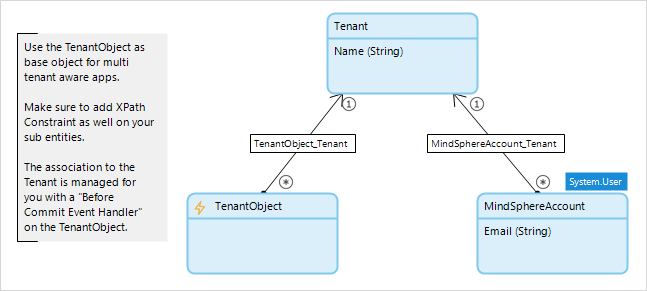
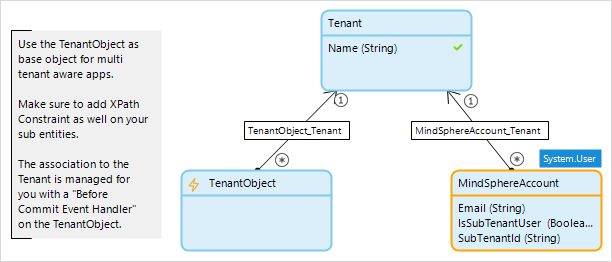
Changes made - needs proofreading

Changed region(s): [[0.2794, 0.0305, 0.9935, 0.9771], [0.0, 0.1221, 0.2484, 0.8855], [0.031, 0.0916, 0.0621, 0.1221]]

diff --git a/content/developerportal/deploy/deploying-to-mindsphere.md b/content/developerportal/deploy/deploying-to-mindsphere.md
@@ -296,6 +296,8 @@ The MindSphere SSO module is included in the MindSphere starter and example apps
 
 {{% alert type="warning" %}}
 The SSO module also requires changes to the app theme see section 2.1.2, [Customizing an Existing App](#existingapp) section.
+
+Please ensure that you download the latest version of the [Theme Pack](#msthemepack) module when you download the SSO module.
 {{% /alert %}}
 
 #### 6.1.1 Constants
@@ -436,12 +438,19 @@ More information on the structure and content of this JSON object, together with
 
 * An Atlas UI theme for MindSphere apps
 * An updated *index.html* file
-* A new *MindSphereLogin.html* file
-* A new permission-denied page (*error_page/403.html*)
+* A new *mindspherelogin.html* file
+* New error pages:
+  * permission-denied (*error_page/403.html*)
+  * no authorization header found (*error_page/NoJWT.html*)
+  * CockpitApplicationName does not match MindSphere token (*error_page/CockpitApplicationName.html*)
+
+#### 6.3.1 Atlas UI Theme
+
+See [MindSphere Development Considerations](/refguide/mindsphere-development-considerations) for a discussion about using the MindSphere Atlas UI Theme.
 
 #### 6.3.1 index.html Changes{#indexhtmlchanges}
 
-Three changes are required to the standard Mendix index.html file to allow integration with MindSphere. In the starter app, example app, and MindSphere UI theme pack, these have already been implemented. If you are making the app from a different starter app you can make these changes manually. See section 6.1, [index.html](#indexhtml), for details of the changes you need to make.
+Three changes are required to the standard Mendix index.html file to allow integration with MindSphere. In the starter app, example app, and MindSphere UI theme pack, these have already been implemented. If you are making the app from a different starter app you can make these changes manually. See the [index.html](#indexhtml) section, below, for details of the changes you need to make.
 
 The changes are required to support:
 
@@ -451,17 +460,23 @@ The changes are required to support:
 
 The index.html file can be found in the /theme folder of your project app.
 
-#### 6.3.2 MindSphereLogin.html
+#### 6.3.2 mindspherelogin.html
 
-As well as changes to the index.html file, SSO for MindSphere also requires a different login *.html* file. This is called MindSphereLogin.html and can also be found in the /theme folder of your project app.
+As well as changes to the index.html file, SSO for MindSphere also requires a different login *.html* file. This is called mindspherelogin.html and can also be found in the /theme folder of your project app.
 
-If this file is not in your /theme folder, you can create it following the instructions in section 6.2, MindSphereLogin.html, or by importing the MindSphere_UI_Resources theme pack.
+If this file is not in your /theme folder, you can create it following the instructions in the [mindspherelogin.html](#mindspherelogin) section, below, or by importing the MindSphere_UI_Resources theme pack.
 
 #### 6.3.3  Permission Denied Page
 
-The permission denied page will be shown if your app will be called with an invalid token or a token which does not include the value you have specified within the SSO constant ‘CockpitApplicationName’. The SSO module expects to find this MindSphere-compliant file as error_page/403.html within your ‘Theme’ folder.
+This is the general permission denied page, and will be shown if your app is called with an invalid token. The SSO module expects to find this MindSphere-compliant file as error_page/403.html within your ‘Theme’ folder.
 
-{{% image_container width="50%" %}}![](attachments/deploying-to-mindsphere/image12.png){{% /image_container %}}
+#### 6.3.4  No Authorization Information Found Page
+
+The No Authorization Information Found page (NoJWT.html) will be shown if your app is called without a valid token. This happens when the app URL is called directly and not via MindGate (Launchpad). For example, if you have a self-hosted, or Mendix Cloud, deployment. The SSO module expects to find this MindSphere-compliant file as error_page/NoJWT.html within your ‘Theme’ folder.
+
+#### 6.3.5  CockpitApplicationName Not Found in the Provided Authorization Information Page
+
+The CockpitApplicationName does not match MindSphere token page will be shown if your app is called with a token which does not include the value (as the *audience* claim of the JWT) you have specified within the SSO constant ‘CockpitApplicationName’. The SSO module expects to find this MindSphere-compliant file as error_page/CockpitApplicationName.html within your ‘Theme’ folder.
 
 ## 7 Development Considerations
 
@@ -484,40 +499,95 @@ If you use the MindSphere starter or example apps, or the Mendix MindSphere them
 
 #### 8.1.1 OS Bar
 
-For the OS Bar to work correctly in your Mendix app, the following script has to be added within the `<head> tags of index.html.
+For the OS Bar to work correctly in your Mendix app, the following script has to be added within the `<head> tags of index.html. Please note the comments in the code regarding the order in which things need to be done if you are inserting this manually.
+
 ```javascript
 <script>
-// MindSphere specific part-1: OS Bar related code
-(function(d1, script1) {
-  script1 = d1.createElement('script');
-  script1.type = 'text/javascript';
-  script1.async = true;
-  script1.onload = function() {
-    _mdsp.init({
-      appId : 'content',
-      appInfoPath : "/rest/os-bar/v1/config",
-      initialize : true
-    });
+	// MindSphere specific part-1: OS Bar related code
+	(function(d1, script1) {
+		script1 = d1.createElement('script');
+		script1.type = 'text/javascript';
+		script1.async = true;
+		script1.onload = function() {
+			_mdsp.init({
+				appId : 'content',
+				appInfoPath : "/rest/os-bar/v1/config",
+				initialize : true
+			});
 
-// make sure that the mxui.js is loaded after osbar/v4/js/main.min.js to prevent problems with the height calculation of some elements
-
-    (function(d2, script2) {
-      script2 = d2.createElement('script');
-      script2.src = 'mxclientsystem/mxui/mxui.js?{{cachebust}}';
-      script2.async = true;
-      d2.getElementsByTagName('body')[0].appendChild(script2);
-    }(document));
-  };
-  script1.src = 'https://static.eu1.mindsphere.io/osbar/v4/js/main.min.js';
-  d1.getElementsByTagName('head')[0].appendChild(script1);
-}(document));
-// MindSphere specific part-1: ends
+			// dojoConfig needs to be defined before loading mxui.js
+			dojoConfig = {
+				isDebug: false,
+				baseUrl: "mxclientsystem/dojo/",
+				cacheBust : "{{cachebust}}",
+				rtlRedirect: "index-rtl.html"
+			};
+			
+			// make sure that the mxui.js is loaded after osbar/v4/js/main.min.js to prevent problems with the height calculation of some elements
+			(function(d2, script2) {
+				script2 = d2.createElement('script');
+				script2.src = 'mxclientsystem/mxui/mxui.js?{{cachebust}}';
+				script2.async = true;
+				d2.getElementsByTagName('body')[0].appendChild(script2);
+			}(document));
+		};
+		script1.src = 'https://static.eu1.mindsphere.io/osbar/v4/js/main.min.js';
+		d1.getElementsByTagName('head')[0].appendChild(script1);
+	}(document));
+	// MindSphere specific part-1: ends
 </script>
 ```
 
-#### 8.1.2 SSO
+#### 8.1.2 XSRF
 
-To allow SSO, the usual login.html needs to be replaced with a different file (MindSphereLogin.html).
+In index.html, after the line `<div id="content"></div>`, the following script needs to be included in the file.
+
+```javascript
+<script>
+	// MindSphere specific part-2: We have to use the XSRF-TOKEN on fetch requests.
+	// This script should placed before "mxui.js" as this script makes the fetch requests
+	(function() {
+		// Read cookie below
+		function getCookie(name) {
+			match = document.cookie.match(new RegExp('(^| )' + name	+ '=([^;]+)'));
+			if (match)
+				return match[2];
+			else
+				return "";
+		}
+
+		var xrsfToken = getCookie("XSRF-TOKEN");
+		if (window.fetch) {
+			var originalFetch = window.fetch;
+			window.fetch = function(url, init) {
+				if (!init) {
+					init = {};
+				}
+				if (!init.headers) {
+					init.headers = new Headers();
+				}
+				init.headers.set("x-xsrf-token", xrsfToken);
+				return originalFetch(url, init);
+			}
+		}
+		var originalXMLHttpRequest = window.XMLHttpRequest;
+		window.XMLHttpRequest = function() {
+			var result = new originalXMLHttpRequest(arguments);
+			result.open = function() {
+				originalXMLHttpRequest.prototype.open
+						.apply(this, arguments);
+				this.setRequestHeader("x-xsrf-token", xrsfToken);
+			}
+			return result;
+		};
+	})();
+	// MindSphere specific part-2: ends
+</script>
+```
+
+#### 8.1.3 SSO
+
+To allow SSO, the usual login.html needs to be replaced with a different file (mindspherelogin.html).
 
 Replace the following lines:
 ```javascript
@@ -526,65 +596,26 @@ document.cookie = "originURI=/login.html";
 ```
 with these lines:
 ```javascript
-if (\!document.cookie || \!document.cookie.match(/(^|;)originURI=/gi))
-document.cookie = "originURI=/MindSphereLogin.html";
+if (!document.cookie || !document.cookie.match(/(^|;)originURI=/gi))
+		document.cookie = "originURI=/mindspherelogin.html?{{cachebust}}";
 ```
 
 {{% alert type="info" %}}
-If MindSphereLogin.html does not exist in your /theme folder, you will have to create it. See section 6.2, [MindSphereLogin.html](#mindspherelogin).
+If mindspherelogin.html does not exist in your /theme folder, you will have to create it. See the [mindspherelogin.html](#mindspherelogin) section, below.
 {{% /alert %}}
 
-#### 8.1.3 XSRF
+### 8.2 mindspherelogin.html{#mindspherelogin}
 
-In index.html, before the before the line `<script src="mxclientsystem/mxui/mxui.js?{{cachebust}}"></script>`, the following script needs to be included in the file.
-```javascript
-<script>
-// MindSphere specific part-2: We have to use the XSRF-TOKEN on fetch requests.
-// This script should placed before "mxui.js" as this script makes the fetch requests
-(function() {
-// Read cookie below
-function getCookie(name) {
-  match = document.cookie.match(new RegExp('(^| )' + name + '=([^;]+)'));
-  if (match) return match[2]; else return "";
-  }
-  var xrsfToken = getCookie("XSRF-TOKEN");
-  if (window.fetch) {
-    var originalFetch = window.fetch;
-    window.fetch = function(url, init) {
-      if (\!init) {
-        init = {};
-      }
-      if (\!init.headers) {
-        init.headers = new Headers();
-      }
-      init.headers.set("x-xsrf-token", xrsfToken);
-      return originalFetch(url, init);
-    }
-  }
-  var originalXMLHttpRequest = window.XMLHttpRequest;
-  window.XMLHttpRequest = function() {
-    var result = new originalXMLHttpRequest(arguments);
-    result.open = function() {
-      originalXMLHttpRequest.prototype.open.apply(this, arguments);
-      this.setRequestHeader("x-xsrf-token", xrsfToken);
-    }
-   return result;
-  };
-})();
-// MindSphere specific part-2: ends
-</script>
-```
-### 8.2 MindSphereLogin.html{#mindspherelogin}
+The mindspherelogin.html file should have the following content.
 
-The MindSphereLogin.html file should have the following content.
 ```html
-<\!doctype html>
+<!doctype html>
 <html>
 <head>
-<title>MindSphereLogin</title>
-<script>
-window.location.assign("/sso/")
-</script>
+  <title>MindSphere Login SSO redirection</title>
+  <script>
+    window.location.assign("/sso/?{{cachebust}}")
+  </script>
 </head>
 </html>
 ```

diff --git a/content/refguide/mindsphere/mindsphere-development-considerations.md b/content/refguide/mindsphere/mindsphere-development-considerations.md
@@ -8,13 +8,50 @@ tags: ["MindSphere", "Credentials", "Multi-Tenant", "Environment Variables", "Lo
 
 ## 1 Introduction
 
-When developing a Mendix app which will be deployed to MindSphere, there are a number of extra things you need to take into consideration. These are discussed below. 
+When developing a Mendix app which will be deployed to MindSphere, there are a number of extra things you need to take into consideration. These are discussed below.
+
+## 2 Atlas UI
+
+### 2.1 MindSphere Icons as SVGs
+
+You can select MindSphere icons to be displayed as SVGs in your application.
+
+1. Open the properties of the widget which can display an icon (for example a button).
+2. Click **Select...** next to the Icon.
+3. Select an **Image** as the icon type.
+4. Find the image that you want and click **Select**. The MindSphere icons are in the module *MindSphere_UI_Resources*.
+
+![Add icon as an image](attachments/mindsphere-development-considerations/svg-icon.png)
+
+{{% alert type="info" %}}
+You cannot change the color of these icons from within Mendix.
+{{% /alert %}}
+
+### 2.2 MindSphere Icons as Icon Font
+
+The MindSphere Theme Pack provides a font which contains icons. This means that you can use MindSphere icons in any page element where you can assign a class.
+
+To do this:
+
+1. Find the icon you wish to use. These have the same names as the icons in the MindSphere Theme Pack and are listed in the *Project Explorer* dock under **Project '…' > App Store modules > MindSphere_UI_Resources > Icons**.
+
+    ![List of MindSphere icons](attachments/mindsphere-development-considerations/mindsphere-icons.png)
+
+2. Open the properties of the element to which you wish to add an icon.
+3. Set **Icon** to *(none)*.
+3. Add the class `iconMdsp {icon-name}`.
+
+    ![Add an icon as CSS](attachments/mindsphere-development-considerations/css-icon.png)
+
+{{% alert type="info" %}}
+You will not see the icon in the Desktop Modeler when it is in *Edit mode*. Switch to *View mode* to confirm that you have selected the correct icon.
+{{% /alert %}}
 
 ## 2 Local Testing{#localtesting}
 
 ### 2.1 Credentials 
 
-When you run your app locally, you will not be able to use SSO to get your credentials. You will be logged on as MxAdmin and will be presented with a login screen the first time that your app attempts to retrieve your access token.
+When you run your app locally, you will not be able to use SSO to get your credentials. You will be logged on as MxAdmin and will be presented with a login screen either when the app starts, or the first time that your app attempts to retrieve your access token, depending on the value of the constant *AskForAppCredsOnStartUp*.
 
 {{% image_container width="50%" %}}![](attachments/mindsphere-development-considerations/image19.png){{% /image_container %}}
 
@@ -42,9 +79,25 @@ To ensure that the correct application credentials are requested, you have to se
 
 ![](attachments/mindsphere-development-considerations/image23.png)
 
+**AskForAppCredsOnStartUp**
+
+Set this to *True* if you want your app to ask for credentials as soon as it starts up, before the first page is displayed. If this is set to *False* then the app will ask for credentials the first time that it attempts to retrieve your access token.
+
+If you have microflows consuming MindSphere APIs which are triggered on the home page the will work the first time the page is displayed.
+
+{{% alert type="info" %}}
+This setting has no effect on apps which are deployed to the cloud. The credentials page is only shown for local deployments.
+{{% /alert %}}
+
 **CockpitApplicationVersion**
 
 This is a valid version of the MindSphere app as registered in the Developer Cockpit under the name *CockpitApplicationName*.
+
+**EnableLocalMindSphereApiReverseProxy**
+
+Set this to *True* to enable a reverse proxy for MindSphere API calls directly from the html pages (for example, the calls from the MindSphere OS Bar).
+
+This adds a new endpoint `/api/**` to the app. An access token is added to all calls from the UI to MindSphere and these are forwarded directly. This setting is needed if you use MindSphere WebComponents during local development, as the WebComponents request data direct calls to MindSphere APIs without any Microflows.
 
 **HostTenant**
 
@@ -88,7 +141,11 @@ MindSphere SSO provides the user’s tenant as the **Name** attribute in the **T
 
 ![](attachments/mindsphere-development-considerations/image25.png)
 
-By utilizing this value when an entity is accessed, the Mendix app can be made multi-tenant.
+In addition, MindSphere SSO will identify whether the current user is a subtenant using **IsSubTenantUser** and, if so, will populate the name of the subtenant in **SubtenantId**. More information about subtenants can be found in the MindSphere documentation [Subtenants](https://developer.mindsphere.io/apis/core-tenantmanagement/api-tenantmanagement-overview.html#subtenants).
+
+**How To Make Your App Multi-Tenant**
+
+By utilizing the **Tenant** when an entity is accessed, the Mendix app can be made multi-tenant.
 
 {{% alert type="warning" %}}
 It is not possible, currently, to generate these access restrictions automatically.
